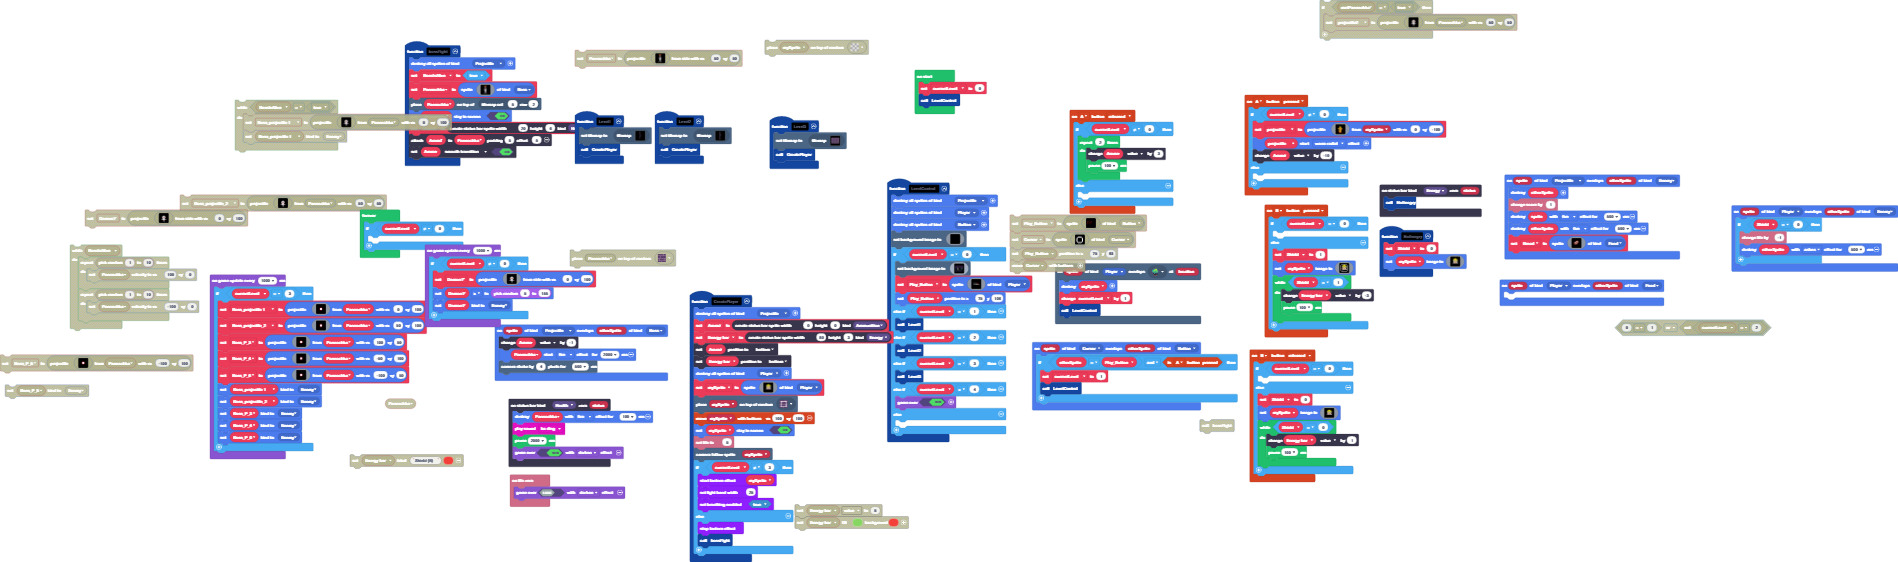
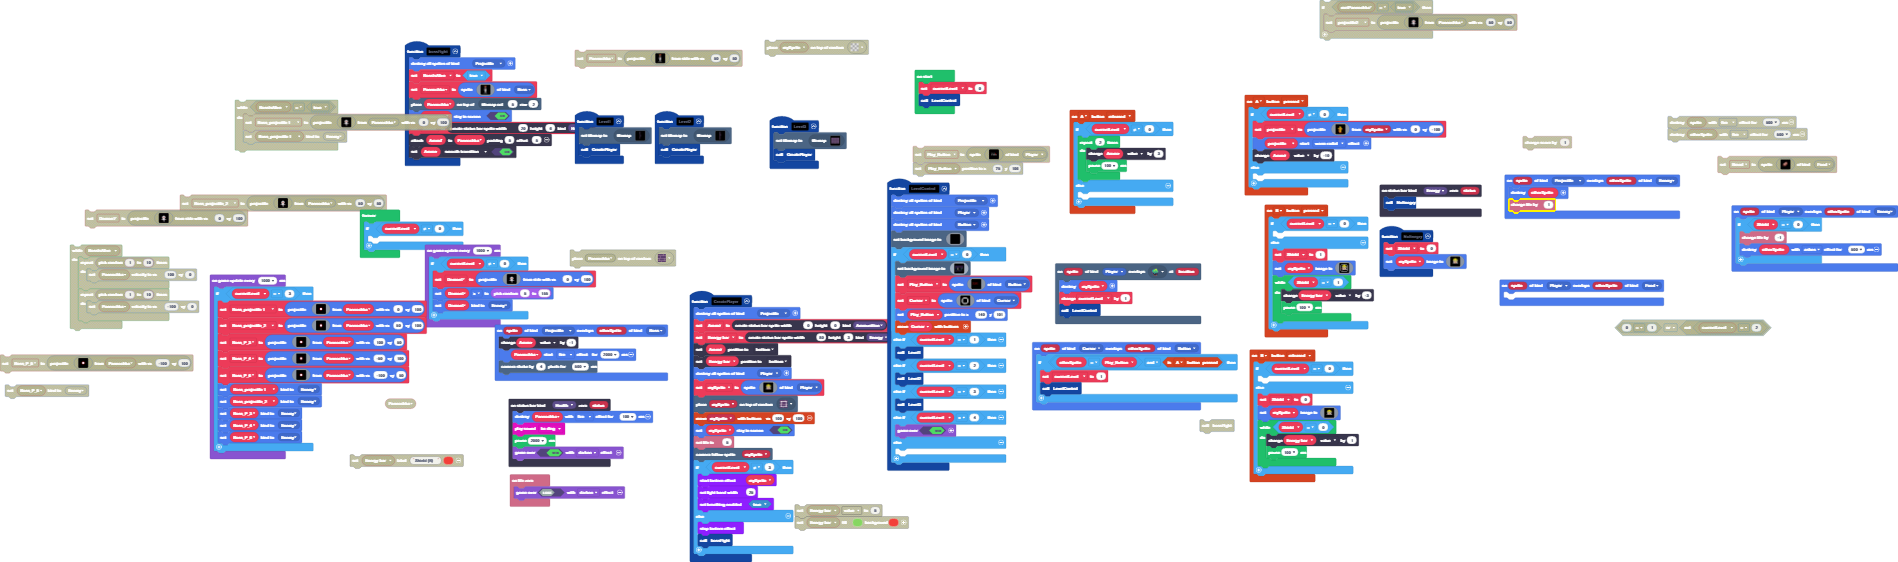
Update main.blocks, main.ts

diff --git a/main.ts b/main.ts
@@ -257,40 +257,59 @@ function LevelControl () {
             ......ccccccccccc.........ccccccccccccccccccc.........................................................................f.........................................
             `)
         Play_Button = sprites.create(img`
-            ffffffffffffffffffffffffffffffff................................
-            ................................................................
-            ................................................................
-            ................................................................
-            ...ffffffffffffffffffffffffffffffffffffffffffffffffffffff.......
-            ...ffffffffffffffffffffffffffffffffffffffffffffffffffffff.......
-            ...ffffff111111ff11fff11f11111ff11f11fffff222ffffffffffff.......
-            ...ffffff111ff1ff11fff11f11fffff11f11fffff222ffffffffffff.......
-            ...ffffff111ff1ff11fff11f11fffff11f11fffff222ffffffffffff.......
-            ...fffffff1111111111ff11f11111ff11111fffff22f22ffffffffff.......
-            ...fffffff11fffffff1ff11fffff1ff11f11fff2222f2222ffffffff.......
-            ...fffffff11fffffff1ff11fffff1ff11f11fff2222f2222ffffffff.......
-            ...fffffff11fffffff11111f11111ff11f11fff22fffff22ffffffff.......
-            ...fffffffffffffffffffffffffffffffffffff2222222222fffffff.......
-            ...fffffffffffffffffffffffffffffffffffff2222222222fffffff.......
-            ...fffffffffffffffffffffffffffffffffffff22fffffff2fffffff.......
-            ...ffffff11111111111ffff111111111111111122ff111ff211111ff.......
-            ...ffffff11111111111ffff111111111111111122ff111ff211111ff.......
-            ...fffffffff11f11ff1ffff111fffff11fff11111ff11111fff11fff.......
-            ...fffffffff11f11ff1ffff111fffff111ff11111ff111fffff11fff.......
-            ...fffffffff11f11ff1ffff111fffff111ff11111ff111fffff11fff.......
-            ...fffffffff11f11111fffffff111ffff1ff11f11ff111111ff11fff.......
-            ...fffffffffffffffffffff111111ffff1ff11f11ff1ffff1ff11fff.......
-            ...fffffffffffffffffffff111111ffff1ff11f11ff1ffff1ff11fff.......
-            ...ffffffffffffffffffffffffffffffffffffffffffffffffffffff.......
-            ...ffffffffffffffffffffffffffffffffffffffffffffffffffffff.......
-            ...ffffffffffffffffffffffffffffffffffffffffffffffffffffff.......
-            ................................................................
-            ................................................................
-            ................................................................
-            ................................................................
-            ................................................................
-            `, SpriteKind.Player)
-        Play_Button.setPosition(75, 106)
+            ......................................................................
+            ......................................................................
+            ...22222222222222222222222222222222222222222222.......................
+            ...22fffffffffffffffffffffffffffffffffffffffff2.......................
+            ...22fffffffffffffffffffffffffffffffffffffffff2.......................
+            ...22ffffff2222fffffffffffffffffffffffffffffff2.......................
+            ...22fffff222ff222f2fffffff2222ffff22ff22fffff2.......................
+            ...22fffff2ffffff2f2ffffff222f222fff2ff22fffff2.......................
+            ...22fffff22fffff2f2ffffff222ff22fff22222fffff2.......................
+            ...22fffff22fffff2f2ffffff222ff22fff22222fffff2.......................
+            ...22fffff22fff222f2ffffff2ffff22ffff2222fffff2.......................
+            ...22fffff2222222ff2ffffff22fff22ffffff22fffff2.......................
+            ...22ffff22ffffffff2fffffff222222ffffff22fffff2.......................
+            ...22ffff22ffffffff2fffffff222222ffffff22fffff2.......................
+            ...22ffff22ffffffff2fffffff2fff22ffffff22fffff2.......................
+            ...22ffff22ffffffff2fffffff2fff22ffff2222fffff2.......................
+            ...22ffff22ffffffff2fffffff2fff22ffff22fffffff2.......................
+            ...22fff222fffffff22222ff222ff2fff2222ffffffff2.......................
+            ...22fff222fffffff22222ff22ff22fff22ffffffffff2.......................
+            ...22fff2ffffffffffffffff22fffffffffffffffffff2.......................
+            ...22fffffffffffffffffffffffffffffffffffffffff2.......................
+            ...22fffffffffffffffffffffffffffffffffffffffff2.......................
+            ...22222222222222222222222222222222222222222222.......................
+            ......................................................................
+            ......................................................................
+            ......................................................................
+            ......................................................................
+            ......................................................................
+            ......................................................................
+            ......................................................................
+            ......................................................................
+            ......................................................................
+            `, SpriteKind.Button)
+        Cursor = sprites.create(img`
+            . . . . . . . . . . . . . . . . 
+            . . . . . . . . . . . . . . . . 
+            . . . . 1 1 1 1 1 1 1 . . . . . 
+            . . . 1 1 1 1 1 1 1 1 1 . . . . 
+            . . 1 1 . . . . . . . 1 1 . . . 
+            . 1 1 . . . . . . . . . 1 1 . . 
+            . 1 1 . . . . . . . . . 1 1 . . 
+            . 1 1 . . . . . . . . . 1 1 . . 
+            . 1 1 . . . . . . . . . 1 1 . . 
+            . 1 1 . . . . . . . . . 1 1 . . 
+            . 1 1 . . . . . . . . . 1 1 . . 
+            . 1 1 . . . . . . . . . 1 1 . . 
+            . . 1 1 . . . . . . . 1 1 . . . 
+            . . . 1 1 1 1 1 1 1 1 1 . . . . 
+            . . . . 1 1 1 1 1 1 1 . . . . . 
+            . . . . . . . . . . . . . . . . 
+            `, SpriteKind.Cursor)
+        Play_Button.setPosition(140, 101)
+        controller.moveSprite(Cursor)
     } else if (currentLevel == 1) {
         Level1()
     } else if (currentLevel == 2) {
@@ -531,27 +550,7 @@ statusbars.onZero(StatusBarKind.Energy, function (status) {
 })
 sprites.onOverlap(SpriteKind.Projectile, SpriteKind.Enemy, function (sprite, otherSprite) {
     otherSprite.destroy()
-    info.changeScoreBy(1)
-    sprite.destroy(effects.fire, 500)
-    otherSprite.destroy(effects.fire, 500)
-    Bread = sprites.create(img`
-        . . . . . . . . . . . . . . . . 
-        . . . . . . . . . . . . . . . . 
-        . . . . . . . . . . . . . . . . 
-        . . . . . . . . e e e . . . . . 
-        . . . . . . e d d e e e . . . . 
-        . . . . . e e e d d e e . . . . 
-        . . . . d d e e e d e e . . . . 
-        . . . e e d d e e e e e . . . . 
-        . . . e e e d d e e e . . . . . 
-        . . . e e e e e e e . . . . . . 
-        . . . e e e e e e . . . . . . . 
-        . . . . . . . . . . . . . . . . 
-        . . . . . . . . . . . . . . . . 
-        . . . . . . . . . . . . . . . . 
-        . . . . . . . . . . . . . . . . 
-        . . . . . . . . . . . . . . . . 
-        `, SpriteKind.Food)
+    info.changeLifeBy(1)
 })
 sprites.onOverlap(SpriteKind.Player, SpriteKind.Enemy, function (sprite, otherSprite) {
     if (Shield == 0) {
@@ -589,7 +588,6 @@ let Boss_P_3: Sprite = null
 let Boss_projectile_2: Sprite = null
 let Boss_projectile_1: Sprite = null
 let Demon1: Sprite = null
-let Bread: Sprite = null
 let projectile: Sprite = null
 let Pannochka: Sprite = null
 let BossIsAlive = false
@@ -597,6 +595,7 @@ let Ammo: StatusBarSprite = null
 let Energy_bar: StatusBarSprite = null
 let mySprite: Sprite = null
 let Shield = 0
+let Cursor: Sprite = null
 let Play_Button: Sprite = null
 let currentLevel = 0
 currentLevel = 0
